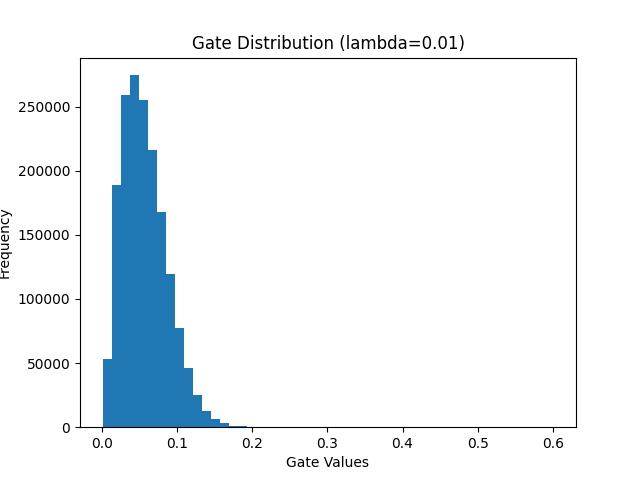
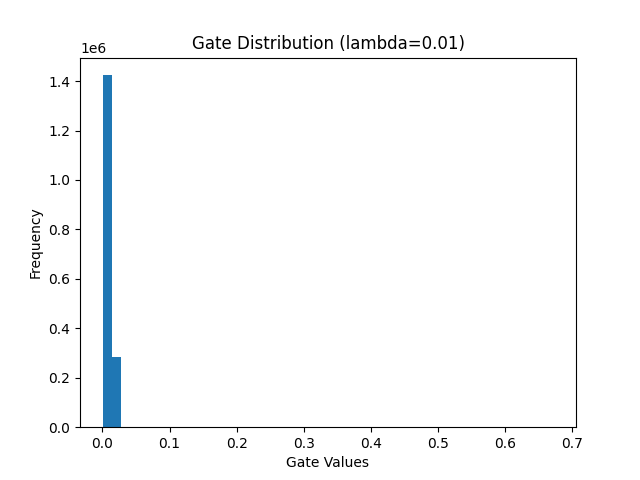
Update main.py and output files

diff --git a/main.py b/main.py
@@ -46,7 +46,7 @@ for lam in lambda_values:
 
     model = train_model(
         lambda_val=lam,
-        epochs=5
+        epochs=10
     )
 
     accuracy = evaluate(